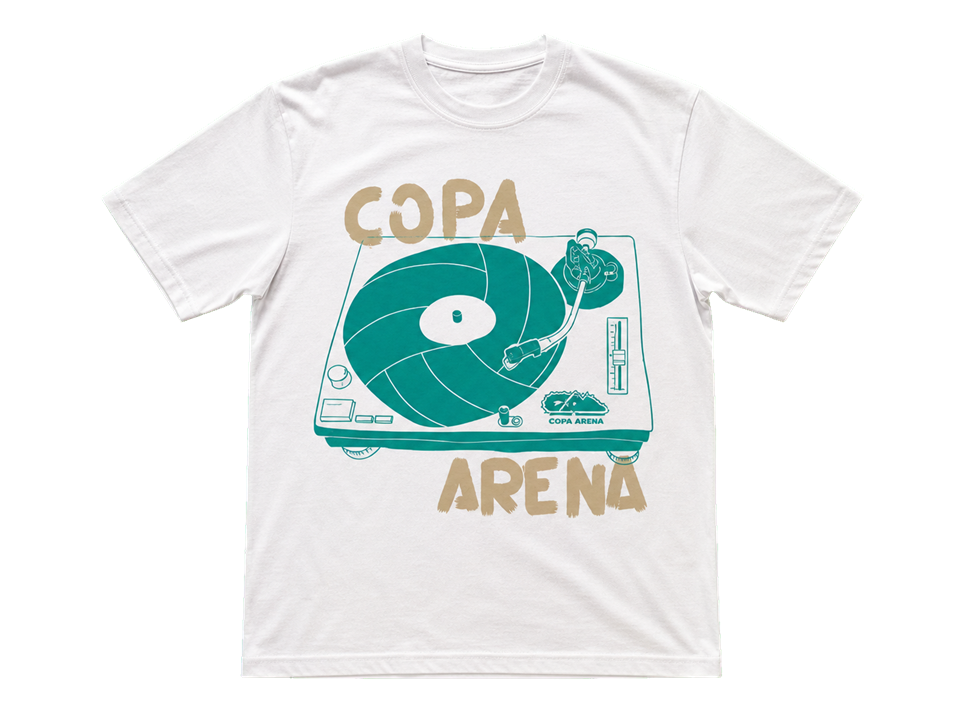
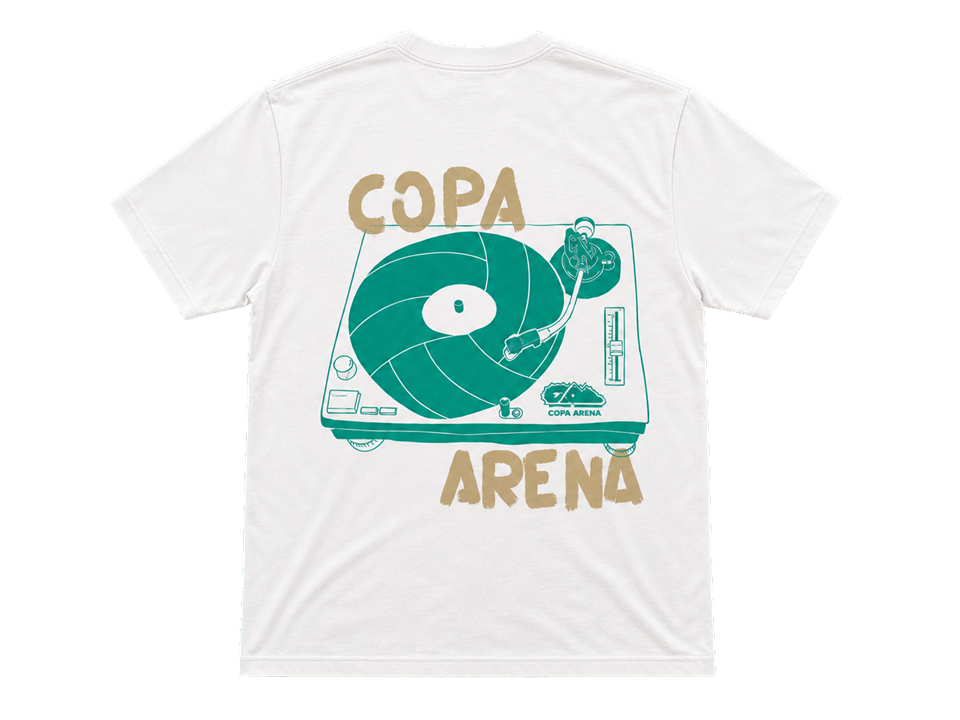
Ajustar camiseta a diseno trasero

diff --git a/src/styles/global.css b/src/styles/global.css
@@ -1961,7 +1961,7 @@ html.js .reveal.in-view {
   border: 2px solid var(--ink);
   border-radius: 8px;
   background:
-    linear-gradient(135deg, rgba(255, 248, 233, 0.94), rgba(231, 218, 181, 0.62));
+    linear-gradient(135deg, rgba(28, 143, 148, 0.95), rgba(17, 111, 118, 0.92));
   box-shadow: 8px 8px 0 var(--ink);
 }
 
@@ -1972,15 +1972,19 @@ html.js .reveal.in-view {
 
 .shirt-product-copy h2 {
   margin: 0;
-  color: var(--deep);
+  color: var(--foam);
   font-size: clamp(1.8rem, 4vw, 3rem);
   line-height: 1;
 }
 
 .shirt-product-copy p {
   margin: 0;
-  color: var(--muted);
+  color: rgba(255, 248, 233, 0.9);
   line-height: 1.65;
+}
+
+.shirt-product .eyebrow {
+  color: var(--sun);
 }
 
 .shirt-product-figure {
@@ -1989,14 +1993,14 @@ html.js .reveal.in-view {
   margin: 0;
   min-width: 0;
   border-radius: 8px;
-  background: rgba(255, 248, 233, 0.62);
+  background: transparent;
 }
 
 .shirt-product-figure img {
   display: block;
   width: min(100%, 560px);
   height: auto;
-  filter: drop-shadow(0 18px 22px rgba(16, 21, 22, 0.18));
+  filter: drop-shadow(0 22px 24px rgba(16, 21, 22, 0.28));
 }
 
 .shirts-form-grid {